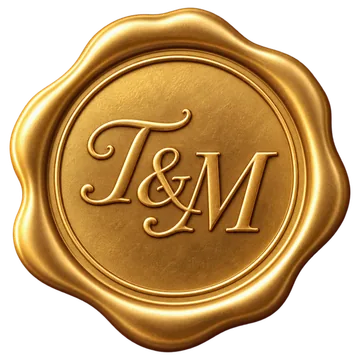
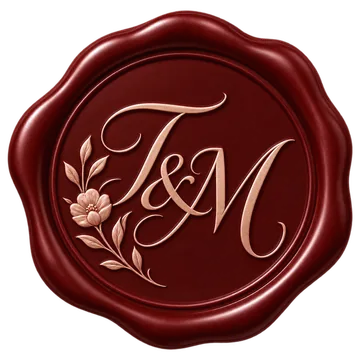
New burgundy wax seal (card + over the video seal); pink rose for Haldi
- New seal (burgundy wax, rose-gold T&M) replaces the gold one on the card
- Video: the new seal sits exactly over the video's gold seal (CSS mirrors
  the video's cover crop; centre 357,588 of 720x1280). Tap presses it in
  with a sheen; it follows the video clock to glow at ~1s and vanish into
  the video's light burst at ~3s, a step ahead of the original seal
- Pale pink rose (flower-5) is Haldi's flower on the travelling rose
- prepare-assets: new seal + flower-5 jobs and web exports

diff --git a/src/components/IntroScenes.tsx b/src/components/IntroScenes.tsx
@@ -55,6 +55,78 @@ export function TapScene({ onTap, leaving }: { onTap: () => void; leaving: boole
   );
 }
 
+/* ── The new wax seal, laid exactly over the video's gold seal ───────
+ * The video (720 × 1280, cropped to fill the screen) has its seal centred
+ * at (357, 588), about 202 px across, perfectly still until ~2.9 s; then a
+ * burst of light at ~3.0 s, it shrinks away by ~3.25 s and the flaps open.
+ * This overlay covers it (CSS mirrors the video's crop, see .video-seal),
+ * presses in when tapped, and follows the video's own clock to glow at ~1 s
+ * and vanish into that burst — so the video seems to have our seal.       */
+export function VideoSeal({ videoRef, opened }: { videoRef: RefObject<HTMLVideoElement | null>; opened: boolean }) {
+  const root = useRef<HTMLDivElement>(null);
+
+  // tap: the seal presses in and springs back, a sheen crosses it
+  useGSAP(
+    () => {
+      if (!opened) return;
+      gsap
+        .timeline()
+        .to(".vs-press", { scale: 0.9, duration: 0.1, ease: "power2.in" })
+        .to(".vs-press", { scale: 1, duration: 0.75, ease: "elastic.out(1, 0.45)" })
+        .fromTo(".vs-sheen", { "--sheen": "-120%" }, { "--sheen": "120%", duration: 0.8, ease: "power2.inOut" }, 0.05);
+      navigator.vibrate?.(12);
+    },
+    { dependencies: [opened], scope: root },
+  );
+
+  // follow the video's clock (stays in sync even if playback stutters)
+  useEffect(() => {
+    if (!opened || !root.current) return;
+    const v = videoRef.current;
+    if (!v) return;
+    const q = gsap.utils.selector(root);
+    const T = timing.video.seal;
+    const tl = gsap
+      .timeline({ paused: true })
+      // the video's seal glows around 1 s — ours glows with it
+      .to(q(".vs-glow"), { opacity: 0.85, scale: 1.1, duration: 0.35, ease: "sine.out" }, T.glowAt)
+      .to(q(".vs-glow"), { opacity: 0.2, scale: 1, duration: 0.7, ease: "sine.inOut" }, T.glowAt + 0.35)
+      // into the burst of light: swell, flare…
+      .to(q(".vs-sync"), { scale: 1.08, duration: 0.15, ease: "power2.out" }, T.burstAt)
+      .to(q(".vs-glow"), { opacity: 1, scale: 1.6, duration: 0.18, ease: "power2.out" }, T.burstAt)
+      // …then shrink away a step ahead of the video's own seal, so it never peeks out
+      .to(q(".vs-sync"), { scale: 0.42, duration: 0.2, ease: "power2.in" }, T.burstAt + 0.15)
+      .to(q(".vs-sync"), { scale: 0, opacity: 0, duration: 0.22, ease: "power2.in" }, T.burstAt + 0.35)
+      .to(q(".vs-glow"), { opacity: 0, duration: 0.3 }, T.burstAt + 0.2);
+    let raf = 0;
+    const sync = () => {
+      tl.time(Math.min(v.currentTime, tl.duration()));
+      if (v.currentTime < tl.duration()) raf = requestAnimationFrame(sync);
+    };
+    raf = requestAnimationFrame(sync);
+    const onTime = () => tl.time(Math.min(v.currentTime, tl.duration()));
+    v.addEventListener("timeupdate", onTime);
+    return () => {
+      cancelAnimationFrame(raf);
+      v.removeEventListener("timeupdate", onTime);
+      tl.kill();
+    };
+  }, [opened, videoRef]);
+
+  return (
+    <div ref={root} className="video-seal" aria-hidden>
+      <div className="vs-sync">
+        <div className="vs-glow" />
+        <div className="vs-shadow" />
+        <div className="vs-press">
+          <Image src={assets.seal} alt="" fill unoptimized preload sizes="160px" draggable={false} />
+          <div className="vs-sheen" />
+        </div>
+      </div>
+    </div>
+  );
+}
+
 /* ── Scene 2: envelope video → hands off to the reveal ──────────────
  * `revealBeforeEnd` seconds before the end, onReveal() fires and the card
  * starts building ON TOP of the still-playing video (its ending is white),

diff --git a/app/globals.css b/app/globals.css
@@ -263,6 +263,53 @@ body {
   object-fit: cover;
   display: block;
 }
+/* New wax seal over the video's gold seal.
+   The video (720×1280) is cropped to fill the phone ("cover"): one video px
+   = max(width/720, height/1280), centred. Its seal is centred at (357, 588)
+   and ~202 px wide; this box is 238 video px so the gold rim never shows (waves differ). */
+.video-seal {
+  --vs: max(calc(100cqw / 720), calc(100cqh / 1280));
+  position: absolute;
+  z-index: 41;
+  left: calc(50cqw + (357 - 360 - 119) * var(--vs));
+  top: calc(50cqh + (588 - 640 - 119) * var(--vs));
+  width: calc(238 * var(--vs));
+  height: calc(238 * var(--vs));
+  pointer-events: none;
+}
+.vs-sync,
+.vs-press {
+  position: absolute;
+  inset: 0;
+  will-change: transform, opacity;
+}
+.vs-glow {
+  position: absolute;
+  inset: -45%;
+  border-radius: 50%;
+  background: radial-gradient(circle, rgb(255 236 190 / 0.95) 0%, rgb(235 200 130 / 0.45) 32%, rgb(220 180 110 / 0) 66%);
+  opacity: 0;
+}
+.vs-shadow {
+  position: absolute;
+  inset: 4% 2% -6% 6%;
+  border-radius: 50%;
+  background: radial-gradient(circle at 50% 55%, rgb(20 2 5 / 0.55) 40%, rgb(20 2 5 / 0) 72%);
+}
+.vs-sheen {
+  position: absolute;
+  inset: 8%;
+  border-radius: 50%;
+  overflow: hidden;
+}
+.vs-sheen::before {
+  content: "";
+  position: absolute;
+  inset: -30%;
+  background: linear-gradient(125deg, transparent 38%, rgb(255 230 215 / 0.55) 50%, transparent 62%);
+  transform: translateX(var(--sheen, -120%));
+}
+
 .white-veil {
   position: absolute;
   inset: 0;

diff --git a/src/components/Invitation.tsx b/src/components/Invitation.tsx
@@ -5,7 +5,7 @@ import { gsap, useGSAP } from "@/src/lib/gsap";
 import { invitation as C } from "@/src/content/invitation";
 import { timing } from "@/src/config/timing";
 import { assets } from "@/src/config/assets";
-import { TapScene, VideoScene } from "./IntroScenes";
+import { TapScene, VideoScene, VideoSeal } from "./IntroScenes";
 import { RevealCard } from "./RevealCard";
 import { Sections } from "./Sections";
 import { DesktopNote } from "./DesktopNote";
@@ -234,6 +234,9 @@ export function Invitation() {
         {(phase === "tap" || (phase === "video" && !videoStarted)) && (
           <TapScene key={`tap-${run}`} onTap={handleTap} leaving={phase !== "tap"} />
         )}
+
+        {/* the new wax seal over the video's gold seal (tap screen + video) */}
+        {phase !== "reveal" && <VideoSeal key={`vs-${run}`} videoRef={videoRef} opened={phase === "video"} />}
 
         <div ref={veilRef} className="white-veil" aria-hidden />
 

diff --git a/src/config/assets.ts b/src/config/assets.ts
@@ -16,9 +16,10 @@ export const assets = {
   paperTile: `${A}/bg/paper-tile.webp`,
   /** seamless velvet tile that flows inside the corner drapes */
   velvetTile: `${A}/velvet/velvet-tile.webp`,
+  /** burgundy wax seal with rose-gold T&M — on the card and over the video seal */
   seal: `${A}/seal/wax-seal-tm.webp`,
-  /** 1 burgundy rose · 2 blush rose · 3 ivory rose · 4 raspberry ranunculus */
-  flowers: [1, 2, 3, 4].map((n) => `${A}/flowers/flower-${n}.webp`),
+  /** 1 burgundy rose · 2 blush rose · 3 ivory rose · 4 raspberry ranunculus · 5 pale pink rose */
+  flowers: [1, 2, 3, 4, 5].map((n) => `${A}/flowers/flower-${n}.webp`),
   rosebud: `${A}/flowers/rosebud.webp`,
   leaves: [1, 2, 3, 4, 5].map((n) => `${A}/leaves/leaf-${n}.webp`),
   petals: [1, 2, 3].map((n) => `${A}/petals/petal-${n}.webp`),

diff --git a/src/content/invitation.ts b/src/content/invitation.ts
@@ -55,7 +55,7 @@ export const invitation = {
    * see src/config/moods.ts. Only "haldi" exists for now.
    * `icons`: gold line icons drawn beside the event (mehndi, haldi, mandap, church, cheers).
    * `flower`: what the travelling rose turns into on this event —
-   *   kind 0 burgundy · 1 blush · 2 ivory · 3 raspberry; tint "gold" warms it to turmeric.
+   *   kind 0 burgundy · 1 blush · 2 ivory · 3 raspberry · 4 pale pink; tint "gold" warms it to turmeric.
    */
   events: [
     {
@@ -80,7 +80,7 @@ export const invitation = {
       note: "Wear yellow",
       mood: "haldi",
       icons: ["haldi"],
-      flower: { kind: 2, tint: "gold" }, // ivory rose tinted turmeric gold
+      flower: { kind: 4 }, // pale pink rose
     },
     {
       day: "24",

diff --git a/src/config/timing.ts b/src/config/timing.ts
@@ -24,6 +24,9 @@ export const timing = {
      *  this long after the tap, or freezes for this long */
     startTimeout: 7,
     stallTimeout: 4,
+    /** the new wax seal over the video: glows with the video at ~1 s, then
+     *  vanishes into the video's burst of light at ~3 s (video seconds) */
+    seal: { glowAt: 0.85, burstAt: 2.88 },
   },
 
   // Scene 3 — invitation reveal (0 = the moment it starts over the video)
